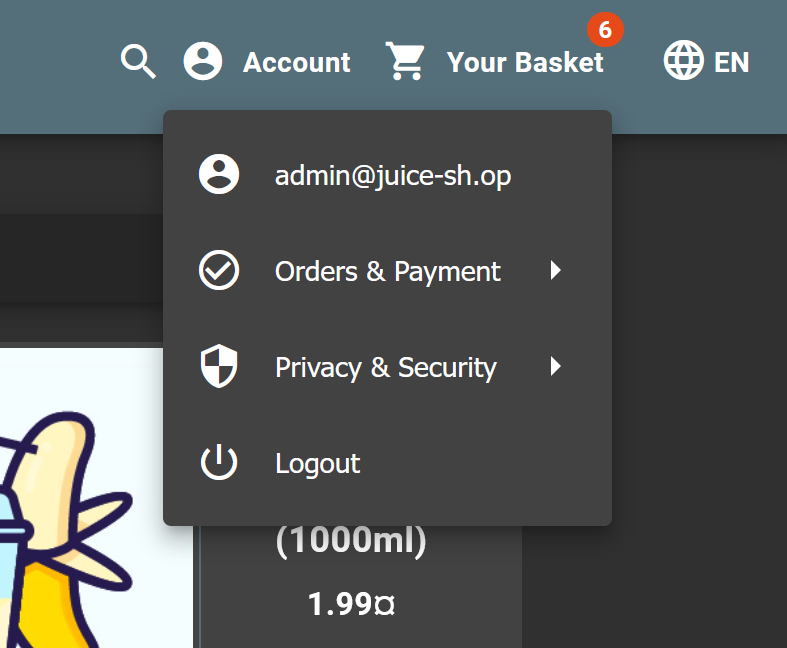
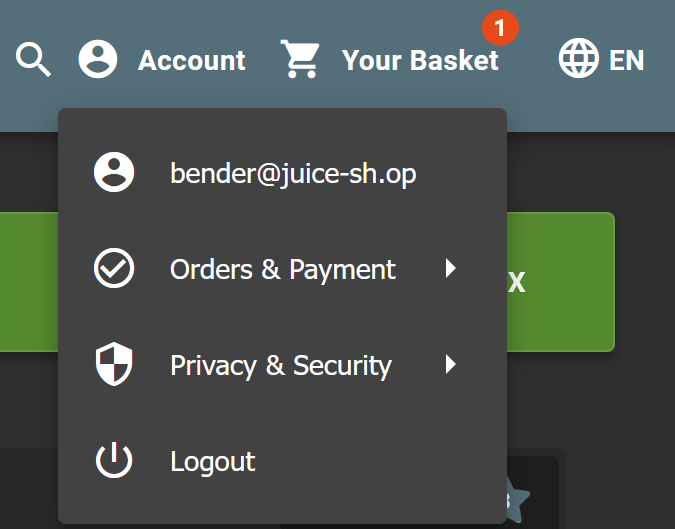
tutor

diff --git a/week2-injection/kelas/LoginAdmin.md b/week2-injection/kelas/LoginAdmin.md
@@ -1,13 +1,13 @@
 # Login Admin
 
-The Admin Login challenge is tutorial question number 1, which contains instructions to log in as an admin using SQL injection. Here we are shown a payload to perform SQL injection. It contains a string such as``OR true --`. This command will break the query and we will login to the admin account. We dont have to think about the password since we can use SQLi.
+The Admin Login challenge is tutorial question number 1, which contains instructions to log in as an admin using SQL injection. Here we are shown a payload to perform SQL injection. It contains a string such as`OR true --`. This command will break the query and we will login to the admin account. We dont have to think about the password since we can use SQLi.
 
-![alt text](image-1.png)
+![alt text](img/image-1.png)
 
 Now let's see if its works
 
-![alt text](image.png)
+![alt text](img/image.png)
 
 As you can see we already logged in with admin@juice-sh.op and here we go we solved it.
 
-![alt text](image-2.png)
+![alt text](img/image-2.png)

diff --git a/week2-injection/kelas/LoginJim.md b/week2-injection/kelas/LoginJim.md
@@ -1,0 +1,10 @@
+# Login Jim
+
+In this challenge we have to log in using Jim's email. We can see the his email format on product review below 
+![alt text](jim.png)
+
+After that, using payload '--' we can logged in into Jim's account
+![alt text](jim3.png)
+
+Here we go, the challenge is solved!
+![alt text](jim2.png)

diff --git a/week2-injection/kelas/LoginBender.md b/week2-injection/kelas/LoginBender.md
@@ -1,0 +1,8 @@
+# Login Bender
+
+As Login Jim's do, its also similar with Bender. Nothings really changes, just a different account.
+
+![alt text](image-1.png)
+
+We already in bender account.
+![alt text](image.png)
